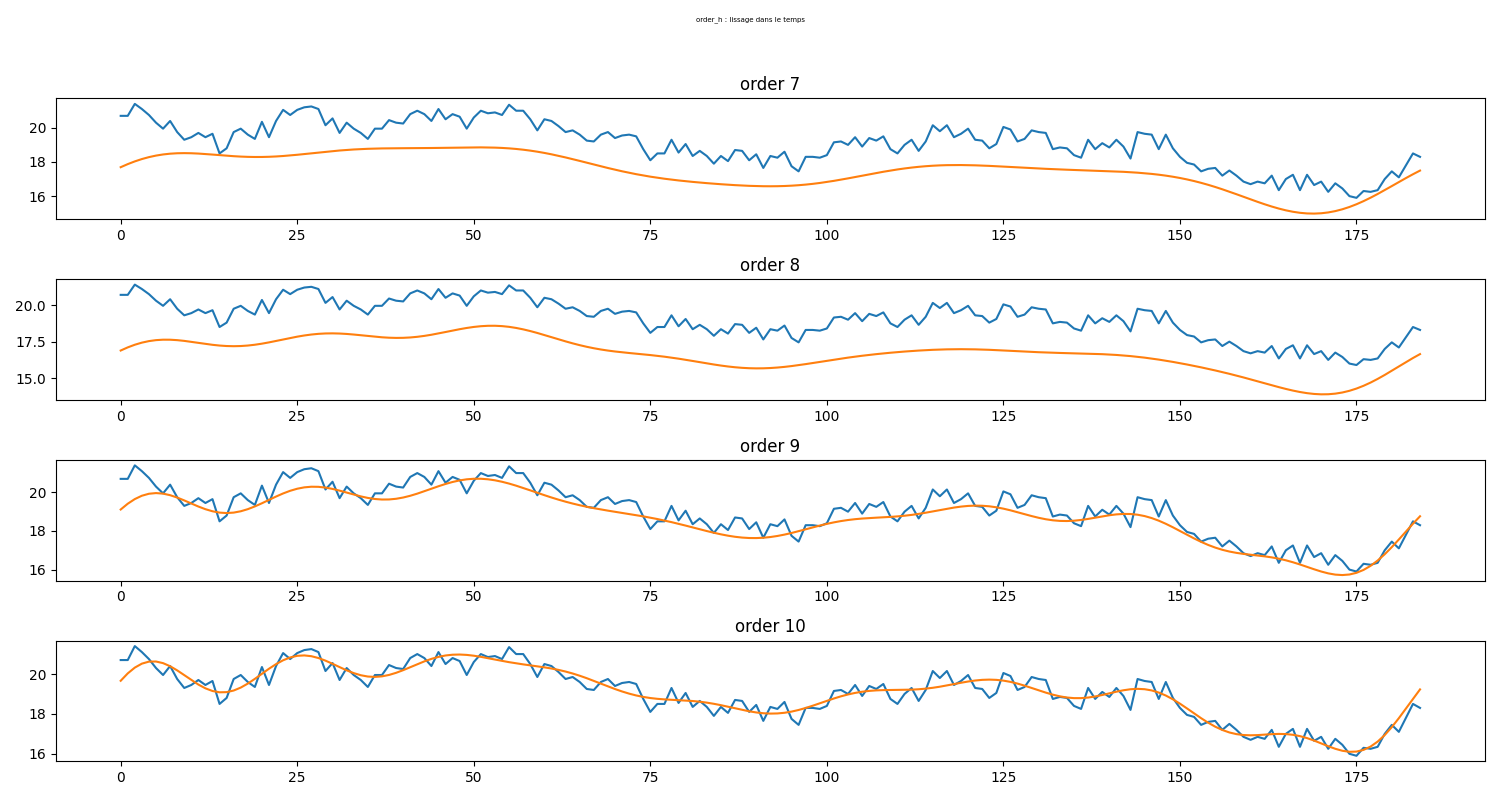
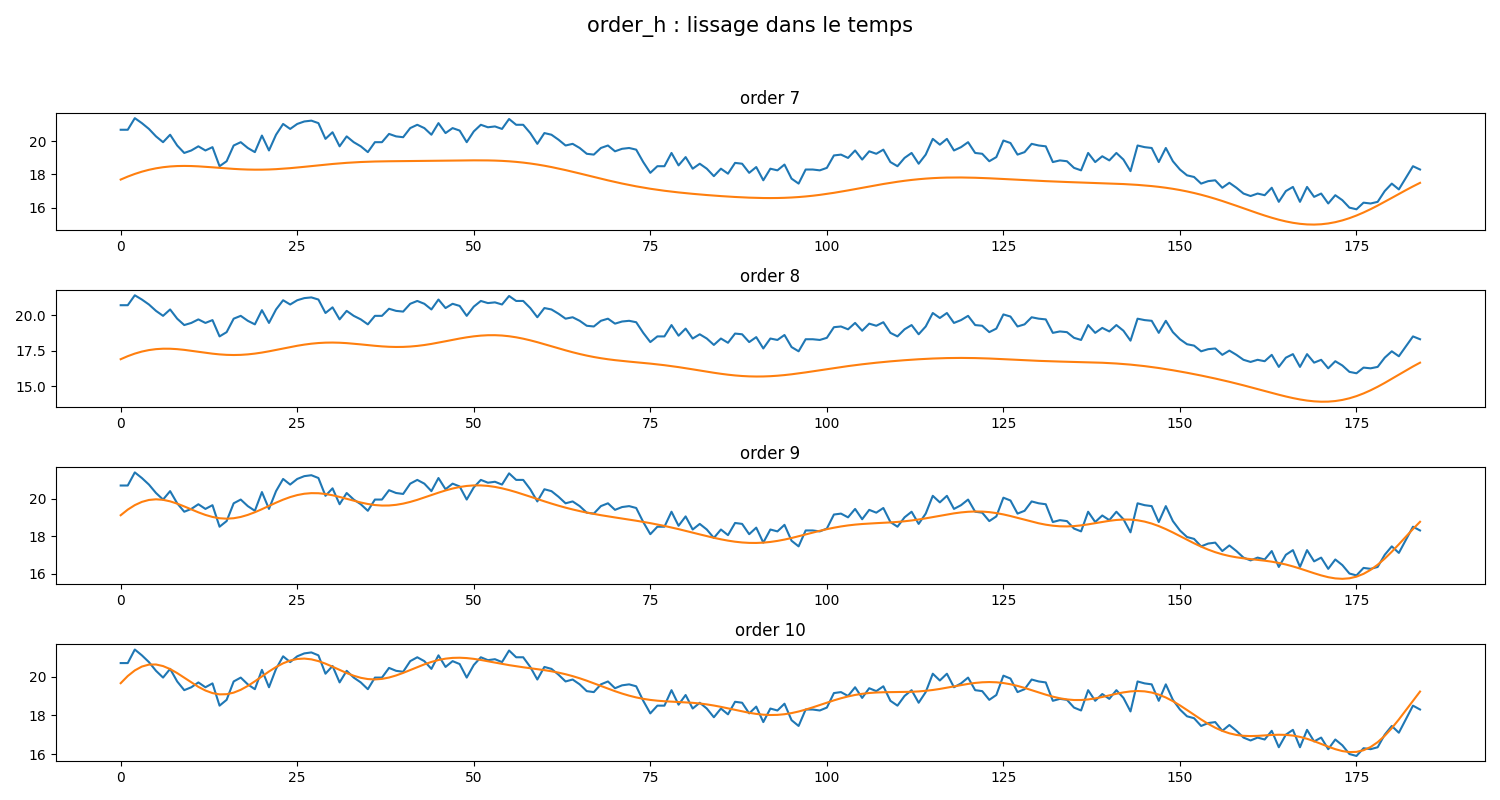
v2

diff --git a/interpLips.py b/interpLips.py
@@ -30,7 +30,7 @@ class AnalyseLips(Fourier):
             ax[i].invert_yaxis()
             
         plt.show()
-        fig.suptitle('order_w : lissage du contour des lèvres', fontsize=5)
+        fig.suptitle('order_w : lissage du contour des lèvres', fontsize=15)
         plt.tight_layout(rect=[0, 0, 1, 0.8])  
 
         fig.savefig('order_w.png')
@@ -49,7 +49,7 @@ class AnalyseLips(Fourier):
             title = f'order {order}'
             ax[i].set_title(title)
             
-        fig.suptitle('order_h : lissage dans le temps', fontsize=5)
+        fig.suptitle('order_h : lissage dans le temps', fontsize=15)
         plt.tight_layout(rect=[0, 0, 1, 0.95])  
         plt.show()
         fig.savefig('order_h.png')
